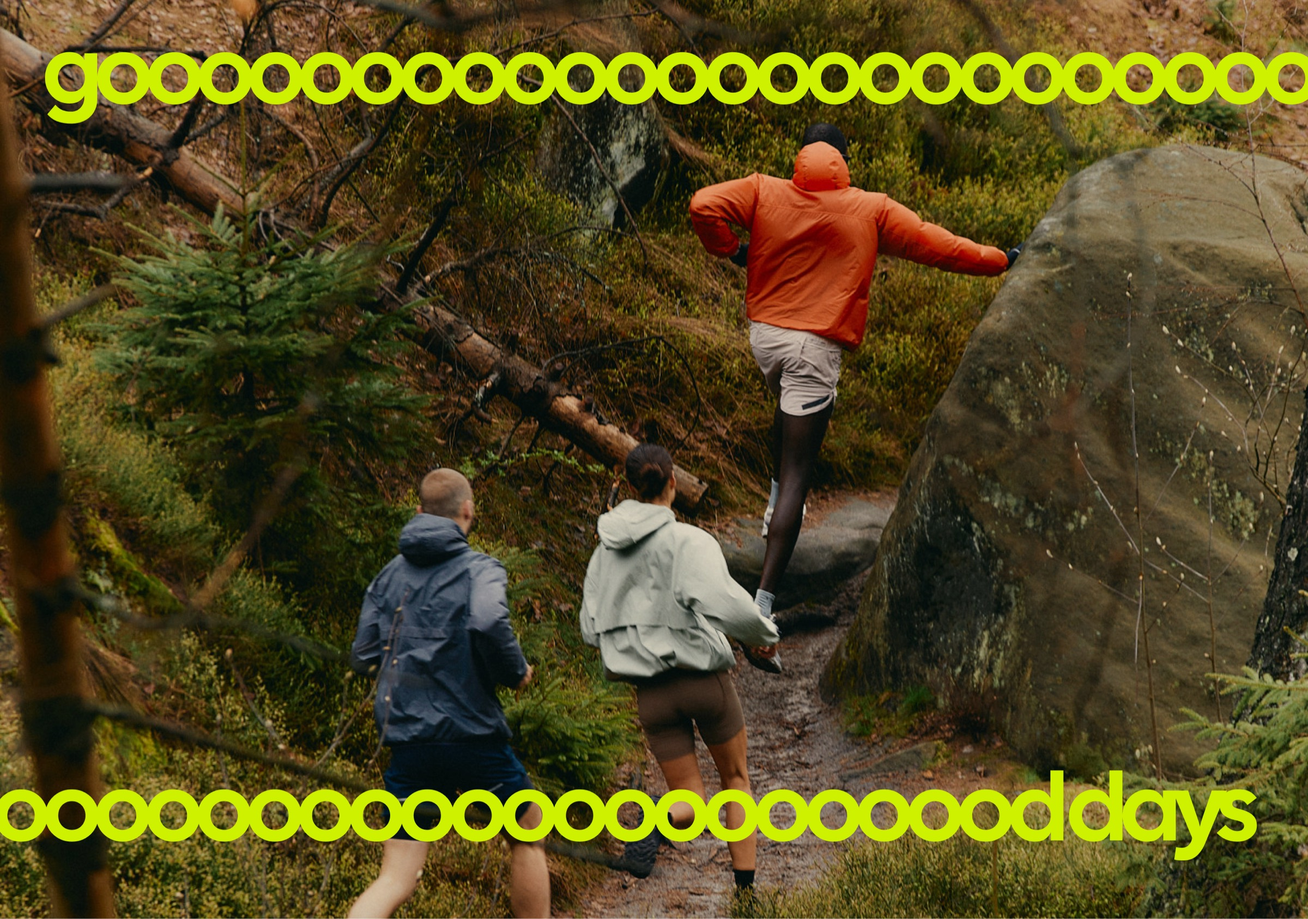
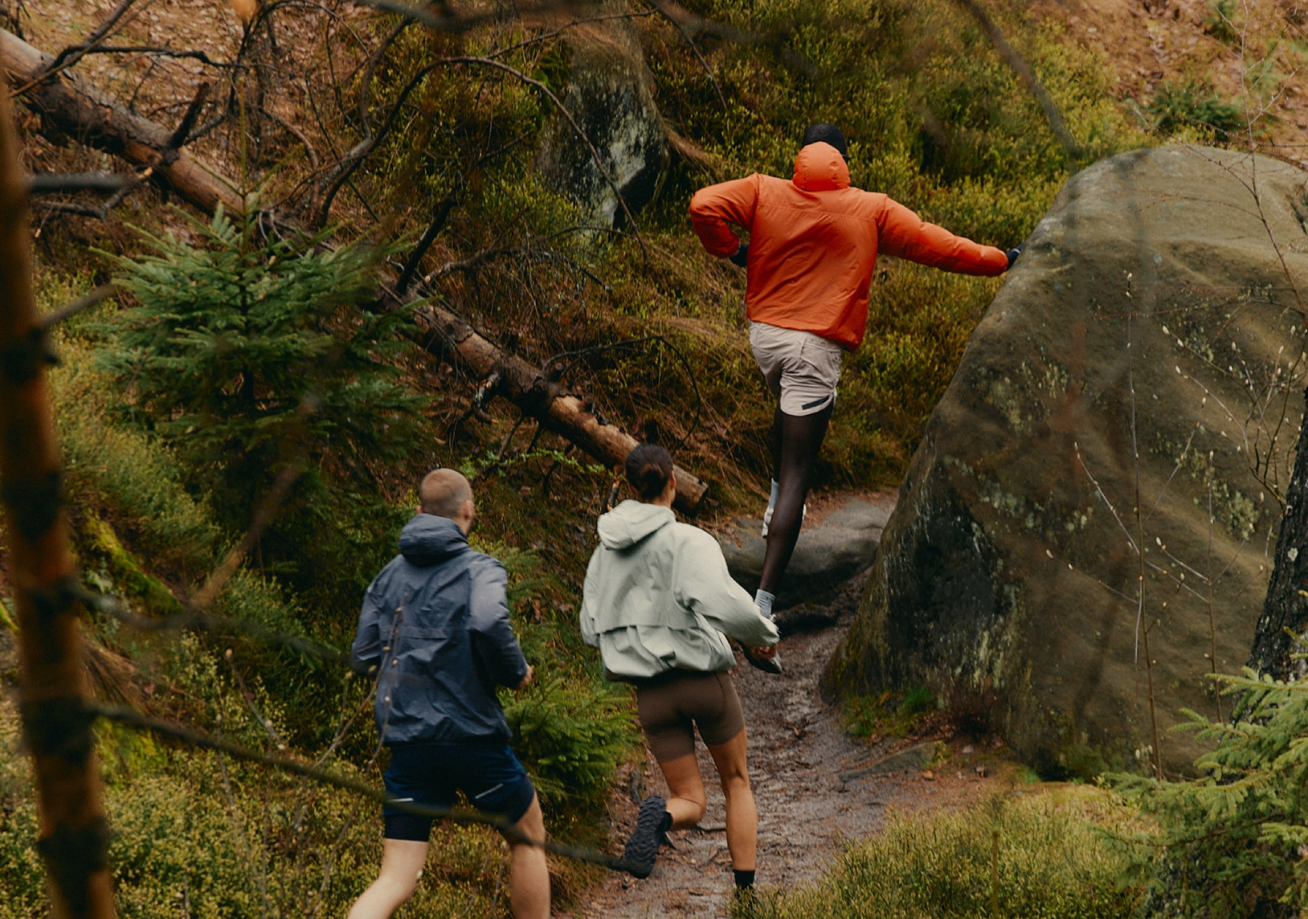
good days: trail photo without text; home order YAS, PAP, MADRUN, BLANK

Changed region(s): [[0.0, 0.8322, 0.9688, 0.9555], [0.0312, 0.0616, 1.0, 0.1541]]

diff --git a/projects.js b/projects.js
@@ -50,6 +50,51 @@
 */
 window.PROJECTS = [
   {
+    id: "sincerely-yas", title: "Sincerely YAS", tags: ["Web Design", "Development", "Shopify"],
+    summary: "Made to be shared.",
+    image: "assets/work/yas/01.jpg", ratio: "1800 / 1200",
+    tagline: "Made to be shared.",
+    client: "Sincerely YAS",
+    year: "2026",
+    // Same layout as the Sincerely YAS case on brookerogersdesign.com, but square corners
+    layout: "case", hero: false, square: true,
+    blocks: [
+      { type: "image", image: "assets/work/yas/01.jpg" },
+      { type: "lead", lead: "SINCERELY YAS", text: "is a brand built around the table — the round of drinks, the plate in the middle, the people leaning in. The site had to feel like being invited rather than sold to." },
+      { type: "red", video: "assets/work/yas/homepage.mp4", poster: "assets/work/yas/poster.jpg" },
+      { type: "lead", lead: "DESIGNED AND BUILT", text: "end to end on Shopify — custom coded rather than themed, so every section behaves the way it was drawn instead of the way a template allows." },
+      { type: "image", image: "assets/work/yas/02.jpg" },
+      { type: "pair", items: ["assets/work/yas/03.jpg", "assets/work/yas/04.jpg"] },
+      { type: "red", image: "assets/work/yas/05.jpg" },
+      { type: "lead", lead: "THE PRODUCT PAGES", text: "carry the same warmth as the photography — generous imagery, a clear path to checkout, and a layout that holds up whether there are three products or thirty." },
+      { type: "trio", items: ["assets/work/yas/06.jpg", "assets/work/yas/07.jpg", "assets/work/yas/08.jpg"] }
+    ]
+  },
+  {
+    id: "pap", title: "Premier Asset Partners",
+    tags: ["Branding", "Strategy", "Social Media", "Website Design", "Marketing Collateral"],
+    summary: "Beyond the transaction.",
+    video: "assets/work/pap/hero.mp4", image: "assets/work/pap/poster.jpg", mark: "assets/work/pap/seal.svg", ratio: "1600 / 844",
+    tagline: "Beyond the transaction.",
+    client: "Premier Asset Partners, Lake Mary, FL",
+    year: "2026",
+    // Same layout as the PAP case on brookerogersdesign.com, but square corners
+    layout: "case", hero: false, square: true,
+    blocks: [
+      { type: "clip", video: "assets/work/pap/hero.mp4", poster: "assets/work/pap/poster.jpg", mark: "assets/work/pap/seal.svg", ratio: "1929 / 1187", markW: "28.8%" },
+      { type: "image", image: "assets/work/pap/mark.jpg" },
+      { type: "bleed", image: "assets/work/pap/stationery.jpg" },
+      { type: "slide", dur: "64s", items: ["assets/work/pap/post-1.jpg", "assets/work/pap/post-2.jpg", "assets/work/pap/post-3.jpg", "assets/work/pap/post-4.jpg", "assets/work/pap/post-5.jpg", "assets/work/pap/post-6.jpg"] },
+      { type: "image", image: "assets/work/pap/logoband.jpg" },
+      { type: "bleed", image: "assets/work/pap/brochure.jpg" },
+      { type: "bleed", image: "assets/work/pap/merch.jpg" },
+      { type: "patterns", each: 2.2, ratio: "565.34 / 443.5", items: ["assets/work/pap/pattern-1.jpg", "assets/work/pap/pattern-2.jpg", "assets/work/pap/pattern-3.jpg", "assets/work/pap/pattern-4.jpg", "assets/work/pap/pattern-5.jpg", "assets/work/pap/pattern-6.jpg"] },
+      { type: "bleed", image: "assets/work/pap/skyline.jpg" },
+      { type: "image", image: "assets/work/pap/cards.jpg" },
+      { type: "image", image: "assets/work/pap/closing.jpg" }
+    ]
+  },
+  {
     id: "madrun", title: "MADRUN", tags: ["Product Design", "Photography"],
     summary: "Built for the mile after.",
     image: "assets/work/madrun/cover.jpg", ratio: "2200 / 1160",
@@ -81,51 +126,6 @@ window.PROJECTS = [
         ] }
     ],
     overview: ["MADRUN turns recovery into part of the performance. A high-impact identity designed to stand out in the gym, on the shelf, and everywhere in between."]
-  },
-  {
-    id: "pap", title: "Premier Asset Partners",
-    tags: ["Branding", "Strategy", "Social Media", "Website Design", "Marketing Collateral"],
-    summary: "Beyond the transaction.",
-    video: "assets/work/pap/hero.mp4", image: "assets/work/pap/poster.jpg", mark: "assets/work/pap/seal.svg", ratio: "1600 / 844",
-    tagline: "Beyond the transaction.",
-    client: "Premier Asset Partners, Lake Mary, FL",
-    year: "2026",
-    // Same layout as the PAP case on brookerogersdesign.com, but square corners
-    layout: "case", hero: false, square: true,
-    blocks: [
-      { type: "clip", video: "assets/work/pap/hero.mp4", poster: "assets/work/pap/poster.jpg", mark: "assets/work/pap/seal.svg", ratio: "1929 / 1187", markW: "28.8%" },
-      { type: "image", image: "assets/work/pap/mark.jpg" },
-      { type: "bleed", image: "assets/work/pap/stationery.jpg" },
-      { type: "slide", dur: "64s", items: ["assets/work/pap/post-1.jpg", "assets/work/pap/post-2.jpg", "assets/work/pap/post-3.jpg", "assets/work/pap/post-4.jpg", "assets/work/pap/post-5.jpg", "assets/work/pap/post-6.jpg"] },
-      { type: "image", image: "assets/work/pap/logoband.jpg" },
-      { type: "bleed", image: "assets/work/pap/brochure.jpg" },
-      { type: "bleed", image: "assets/work/pap/merch.jpg" },
-      { type: "patterns", each: 2.2, ratio: "565.34 / 443.5", items: ["assets/work/pap/pattern-1.jpg", "assets/work/pap/pattern-2.jpg", "assets/work/pap/pattern-3.jpg", "assets/work/pap/pattern-4.jpg", "assets/work/pap/pattern-5.jpg", "assets/work/pap/pattern-6.jpg"] },
-      { type: "bleed", image: "assets/work/pap/skyline.jpg" },
-      { type: "image", image: "assets/work/pap/cards.jpg" },
-      { type: "image", image: "assets/work/pap/closing.jpg" }
-    ]
-  },
-  {
-    id: "sincerely-yas", title: "Sincerely YAS", tags: ["Web Design", "Development", "Shopify"],
-    summary: "Made to be shared.",
-    image: "assets/work/yas/01.jpg", ratio: "1800 / 1200",
-    tagline: "Made to be shared.",
-    client: "Sincerely YAS",
-    year: "2026",
-    // Same layout as the Sincerely YAS case on brookerogersdesign.com, but square corners
-    layout: "case", hero: false, square: true,
-    blocks: [
-      { type: "image", image: "assets/work/yas/01.jpg" },
-      { type: "lead", lead: "SINCERELY YAS", text: "is a brand built around the table — the round of drinks, the plate in the middle, the people leaning in. The site had to feel like being invited rather than sold to." },
-      { type: "red", video: "assets/work/yas/homepage.mp4", poster: "assets/work/yas/poster.jpg" },
-      { type: "lead", lead: "DESIGNED AND BUILT", text: "end to end on Shopify — custom coded rather than themed, so every section behaves the way it was drawn instead of the way a template allows." },
-      { type: "image", image: "assets/work/yas/02.jpg" },
-      { type: "pair", items: ["assets/work/yas/03.jpg", "assets/work/yas/04.jpg"] },
-      { type: "red", image: "assets/work/yas/05.jpg" },
-      { type: "lead", lead: "THE PRODUCT PAGES", text: "carry the same warmth as the photography — generous imagery, a clear path to checkout, and a layout that holds up whether there are three products or thirty." },
-      { type: "trio", items: ["assets/work/yas/06.jpg", "assets/work/yas/07.jpg", "assets/work/yas/08.jpg"] }
-    ]
   },
   {
     id: "blank", title: "BLANK", tags: ["Branding", "Positioning", "Web Design"],

diff --git a/project.html b/project.html
@@ -11,7 +11,7 @@
   <link rel="preconnect" href="https://fonts.googleapis.com">
   <link rel="preconnect" href="https://fonts.gstatic.com" crossorigin>
   <link href="https://fonts.googleapis.com/css2?family=Inter+Tight:wght@400;500;700&family=Square+Peg&display=swap" rel="stylesheet">
-  <link rel="stylesheet" href="styles.css?v=26">
+  <link rel="stylesheet" href="styles.css?v=27">
 </head>
 <body class="page-project">
   <a class="skip-link" href="#main">Skip to content</a>
@@ -49,8 +49,8 @@
     </div>
   </footer>
 
-  <script src="projects.js?v=26"></script>
-  <script src="project.js?v=26"></script>
-  <script src="main.js?v=26"></script>
+  <script src="projects.js?v=27"></script>
+  <script src="project.js?v=27"></script>
+  <script src="main.js?v=27"></script>
 </body>
 </html>

diff --git a/studio.html b/studio.html
@@ -11,7 +11,7 @@
   <link rel="preconnect" href="https://fonts.googleapis.com">
   <link rel="preconnect" href="https://fonts.gstatic.com" crossorigin>
   <link href="https://fonts.googleapis.com/css2?family=Inter+Tight:wght@400;500&display=swap" rel="stylesheet">
-  <link rel="stylesheet" href="styles.css?v=26">
+  <link rel="stylesheet" href="styles.css?v=27">
 </head>
 <body class="page-studio">
   <a class="skip-link" href="#main">Skip to content</a>
@@ -163,7 +163,7 @@
     </div>
   </footer>
 
-  <script src="projects.js?v=26"></script>
-  <script src="main.js?v=26"></script>
+  <script src="projects.js?v=27"></script>
+  <script src="main.js?v=27"></script>
 </body>
 </html>

diff --git a/index.html b/index.html
@@ -13,7 +13,7 @@
   <link rel="preconnect" href="https://fonts.googleapis.com">
   <link rel="preconnect" href="https://fonts.gstatic.com" crossorigin>
   <link href="https://fonts.googleapis.com/css2?family=Inter+Tight:wght@400;500&display=swap" rel="stylesheet">
-  <link rel="stylesheet" href="styles.css?v=26">
+  <link rel="stylesheet" href="styles.css?v=27">
 </head>
 <body class="is-loading">
   <a class="skip-link" href="#main">Skip to content</a>
@@ -78,7 +78,7 @@
     </div>
   </footer>
 
-  <script src="projects.js?v=26"></script>
-  <script src="main.js?v=26"></script>
+  <script src="projects.js?v=27"></script>
+  <script src="main.js?v=27"></script>
 </body>
 </html>

diff --git a/CLAUDE.md b/CLAUDE.md
@@ -20,7 +20,7 @@ Live address: https://howellnpartners.github.io/Website/ (GitHub Pages, no custo
 
 ## Where to edit
 Almost everything lives in `projects.js`:
-- `window.PROJECTS`: MADRUN, Premier Asset Partners, Sincerely YAS, BLANK, plus good days (hideFromWork: true, so it is only reached from the Brand & Design panel). good days is cut from the "Good Days" frame (node 4-2417) in the Website Figma file, not the portfolio. Block types are documented at the top of the file. Projects copied from Brooke's portfolio (brookerogersdesign.com, local `../../Portfolio Site/site/cases.js`) use `layout: "case"`, `hero: false` and the portfolio block types (bleed, image, pair, trio, lead, red, panel, screens, swatches, clip, slide, patterns, motion, pack) so they match the portfolio; the top title and Client / Year / Role stay in this site's layout. All four use `square: true` (no rounded corners).
+- `window.PROJECTS` (array order = home grid order and Prev / Next): Sincerely YAS, Premier Asset Partners, MADRUN, BLANK, plus good days (hideFromWork: true, so it is only reached from the Brand & Design panel). good days is cut from the "Good Days" frame (node 4-2417) in the Website Figma file, not the portfolio. Block types are documented at the top of the file. Projects copied from Brooke's portfolio (brookerogersdesign.com, local `../../Portfolio Site/site/cases.js`) use `layout: "case"`, `hero: false` and the portfolio block types (bleed, image, pair, trio, lead, red, panel, screens, swatches, clip, slide, patterns, motion, pack) so they match the portfolio; the top title and Client / Year / Role stay in this site's layout. All four use `square: true` (no rounded corners).
 - `window.CAPABILITIES`: the 6 Capabilities panels. Backgrounds are 1920x1080 exports of the frames in the "Website" Figma file (Homepage page), saved in `assets/services/`. A panel with `link` opens that project when clicked (Brand & Design → good days); a full https:// link opens in a new tab with "Visit site" (Digital & Web → uncensored-health.com). `mobileImage` is the phone version (1016x2340 frames on the Figma Homepage page, saved as `*-mobile.jpg`); Production plays the reel (`video`).
 - `window.STUDIO`: the 4 Our Studio panels. Not shown anywhere since Our Studio was removed from the home page; kept in case it comes back.
 Images go in `assets/work/` (one folder per project), `assets/services/`, `assets/studio/`. Styles in `styles.css`, behavior in `main.js` and `project.js`.
